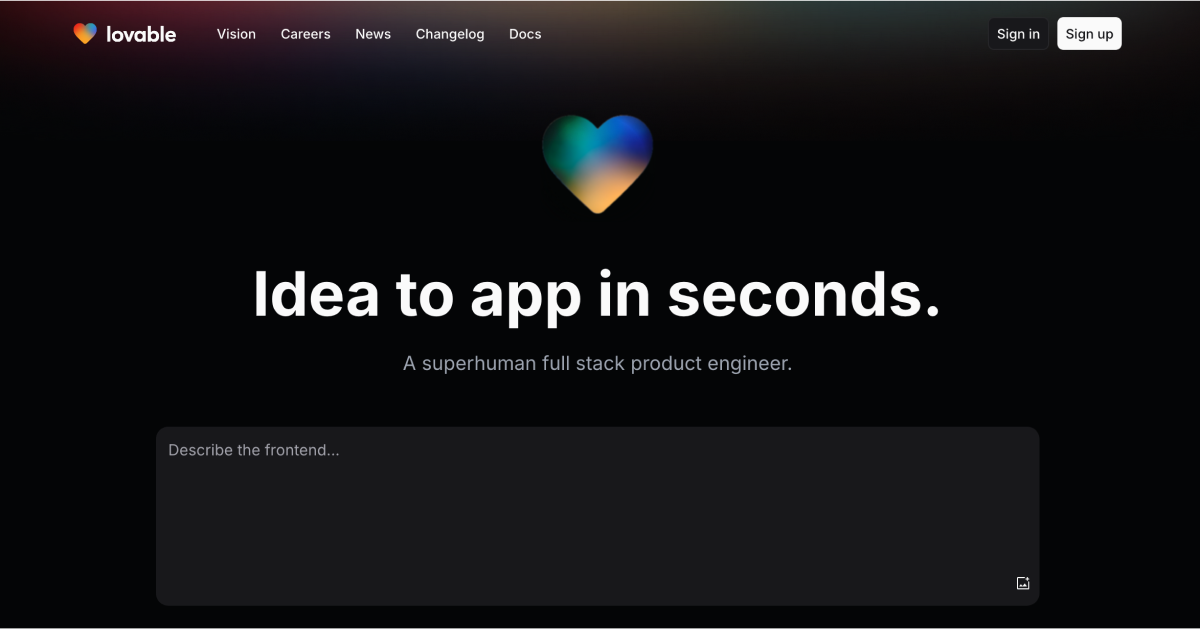
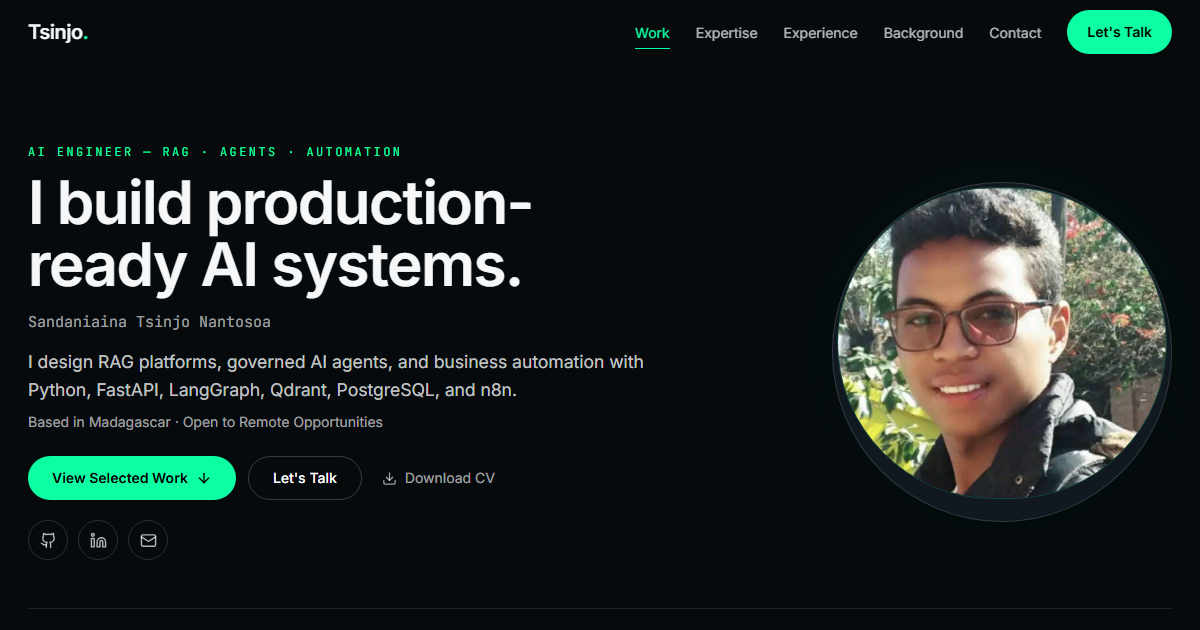
Polish portfolio for professional sharing

diff --git a/src/components/Sections/Hero.tsx b/src/components/Sections/Hero.tsx
@@ -18,8 +18,8 @@ const metrics = [
   },
   {
     value: "97/98",
-    label: "Quality & Security Checks",
-    hint: "Validated before production",
+    label: "Automated Checks Passed",
+    hint: "Quality and security validation",
   },
   {
     value: "20",
@@ -46,13 +46,11 @@ const Hero: React.FC = () => {
         }}
         aria-hidden
       />
-      <div className="pointer-events-none absolute inset-0 -z-10 bg-[radial-gradient(circle_at_72%_28%,rgba(13,255,163,0.05),transparent_34%)]" />
-
       <div className="site-container">
         <div className="layout-grid items-center py-8 sm:py-10 lg:py-12">
           <div className="col-span-12 lg:col-span-7">
             <motion.p
-              initial={{ opacity: 0, y: 10 }}
+              initial={false}
               animate={{ opacity: 1, y: 0 }}
               transition={{ duration: 0.35 }}
               className="mb-3 font-mono text-[11px] uppercase tracking-[0.2em] text-neon sm:text-xs"
@@ -61,16 +59,16 @@ const Hero: React.FC = () => {
             </motion.p>
 
             <motion.h1
-              initial={{ opacity: 0, y: 12 }}
+              initial={false}
               animate={{ opacity: 1, y: 0 }}
               transition={{ duration: 0.4, delay: 0.04 }}
-              className="mb-4 max-w-[720px] text-balance font-sans text-[clamp(2.8rem,5vw,4.8rem)] font-semibold leading-[1.03] tracking-tight text-[var(--text-primary)]"
+              className="mb-4 max-w-[720px] text-balance font-sans text-[clamp(2.5rem,5vw,4.8rem)] font-semibold leading-[1.03] tracking-tight text-[var(--text-primary)]"
             >
               I build production-ready AI systems.
             </motion.h1>
 
             <motion.p
-              initial={{ opacity: 0, y: 12 }}
+              initial={false}
               animate={{ opacity: 1, y: 0 }}
               transition={{ duration: 0.4, delay: 0.08 }}
               className="mb-4 font-mono text-sm text-[var(--text-muted)] sm:text-[15px]"
@@ -79,7 +77,7 @@ const Hero: React.FC = () => {
             </motion.p>
 
             <motion.p
-              initial={{ opacity: 0, y: 12 }}
+              initial={false}
               animate={{ opacity: 1, y: 0 }}
               transition={{ duration: 0.4, delay: 0.12 }}
               className="mb-2 max-w-[650px] text-[16.5px] leading-relaxed text-[var(--text-secondary)] sm:text-[17.5px]"
@@ -89,7 +87,7 @@ const Hero: React.FC = () => {
             </motion.p>
 
             <motion.p
-              initial={{ opacity: 0, y: 12 }}
+              initial={false}
               animate={{ opacity: 1, y: 0 }}
               transition={{ duration: 0.4, delay: 0.16 }}
               className="mb-6 text-sm text-[var(--text-muted)]"
@@ -98,7 +96,7 @@ const Hero: React.FC = () => {
             </motion.p>
 
             <motion.div
-              initial={{ opacity: 0, y: 12 }}
+              initial={false}
               animate={{ opacity: 1, y: 0 }}
               transition={{ duration: 0.4, delay: 0.2 }}
               className="mb-5 flex flex-wrap items-center gap-3"
@@ -127,7 +125,7 @@ const Hero: React.FC = () => {
             </motion.div>
 
             <motion.div
-              initial={{ opacity: 0, y: 12 }}
+              initial={false}
               animate={{ opacity: 1, y: 0 }}
               transition={{ duration: 0.4, delay: 0.24 }}
               className="flex items-center gap-2.5"
@@ -149,7 +147,7 @@ const Hero: React.FC = () => {
           </div>
 
           <motion.div
-            initial={{ opacity: 0, scale: 0.98 }}
+            initial={false}
             animate={{ opacity: 1, scale: 1 }}
             transition={{ duration: 0.5, delay: 0.1 }}
             className="col-span-12 mx-auto w-full max-w-[260px] sm:max-w-[320px] lg:col-span-5 lg:mx-0 lg:max-w-[340px] lg:justify-self-end"

diff --git a/index.html b/index.html
@@ -2,7 +2,7 @@
 <html lang="en">
   <head>
     <meta charset="UTF-8" />
-    <link rel="icon" type="image/svg+xml" href="/favicon.svg" />
+    <link rel="icon" type="image/svg+xml" href="/favicon.svg?v=2" />
     <meta name="viewport" content="width=device-width, initial-scale=1.0" />
     <meta name="theme-color" content="#070A0D" />
     <title>Sandaniaina Tsinjo Nantosoa — AI Engineer | RAG, AI Agents & Automation</title>
@@ -15,16 +15,19 @@
       content="AI Engineer, RAG, AI Agents, LangGraph, FastAPI, Qdrant, n8n, Automation, Python, Sandaniaina Tsinjo Nantosoa"
     />
     <meta name="author" content="Sandaniaina Tsinjo Nantosoa" />
-    <link rel="canonical" href="https://tsinjonantosoa.netlify.app/" />
+    <link rel="canonical" href="https://tsinjona.netlify.app/" />
 
     <meta property="og:title" content="Sandaniaina Tsinjo Nantosoa — AI Engineer" />
     <meta
       property="og:description"
       content="RAG · AI Agents · Automation. Production-ready AI systems with Python, FastAPI, LangGraph, Qdrant and n8n."
     />
-    <meta property="og:image" content="/og-image.png" />
+    <meta property="og:image" content="https://tsinjona.netlify.app/og-image.png" />
+    <meta property="og:image:width" content="1200" />
+    <meta property="og:image:height" content="630" />
+    <meta property="og:image:alt" content="Sandaniaina Tsinjo Nantosoa, AI Engineer building production-ready AI systems" />
     <meta property="og:type" content="website" />
-    <meta property="og:url" content="https://tsinjonantosoa.netlify.app/" />
+    <meta property="og:url" content="https://tsinjona.netlify.app/" />
 
     <meta name="twitter:card" content="summary_large_image" />
     <meta name="twitter:title" content="Sandaniaina Tsinjo Nantosoa — AI Engineer" />
@@ -32,7 +35,7 @@
       name="twitter:description"
       content="RAG · AI Agents · Automation. Production-ready AI systems with Python, FastAPI, LangGraph, Qdrant and n8n."
     />
-    <meta name="twitter:image" content="/og-image.png" />
+    <meta name="twitter:image" content="https://tsinjona.netlify.app/og-image.png" />
 
     <script type="application/ld+json">
       {
@@ -40,7 +43,7 @@
         "@type": "Person",
         "name": "Sandaniaina Tsinjo Nantosoa",
         "jobTitle": "AI Engineer",
-        "url": "https://tsinjonantosoa.netlify.app/",
+        "url": "https://tsinjona.netlify.app/",
         "email": "mailto:tsinjonantosoa@gmail.com",
         "sameAs": [
           "https://github.com/TsinjoNantosoa",

diff --git a/src/components/project/FeaturedProjectCard.tsx b/src/components/project/FeaturedProjectCard.tsx
@@ -57,7 +57,7 @@ const FeaturedProjectCard: React.FC<FeaturedProjectCardProps> = ({
       <p className="mb-2 line-clamp-3 text-[15.5px] leading-[1.6] text-[var(--text-secondary)]">
         {project.plainSummary}
       </p>
-      <p className="mb-4 line-clamp-2 font-mono text-[12px] leading-relaxed text-[var(--text-muted)]">
+      <p className="mb-4 line-clamp-2 font-mono text-[12.5px] leading-relaxed text-[var(--text-muted)]">
         {project.technicalSummary}
       </p>
 
@@ -65,7 +65,7 @@ const FeaturedProjectCard: React.FC<FeaturedProjectCardProps> = ({
         {project.highlights.slice(0, highlightLimit).map((item) => (
           <li
             key={item}
-            className="flex gap-2.5 text-[14px] leading-[1.45] text-[var(--text-secondary)]"
+            className="flex gap-2.5 text-[14.5px] leading-[1.5] text-[var(--text-secondary)]"
           >
             <span className="mt-1.5 h-1.5 w-1.5 shrink-0 rounded-full bg-neon" aria-hidden />
             <span>{item}</span>
@@ -161,7 +161,7 @@ const FeaturedProjectCard: React.FC<FeaturedProjectCardProps> = ({
           </div>
         </div>
       ) : hasMedia && project.imageUrl ? (
-        <div className={isFlagship ? "grid h-full lg:grid-cols-[1.25fr_0.75fr]" : "flex h-full flex-col"}>
+        <div className={isFlagship ? "grid h-full lg:grid-cols-[0.95fr_1.05fr]" : "flex h-full flex-col"}>
           <div className={isFlagship ? "min-h-0" : undefined}>
             <ProjectMedia
               src={project.imageUrl}
@@ -170,7 +170,8 @@ const FeaturedProjectCard: React.FC<FeaturedProjectCardProps> = ({
                 `${project.title} screenshot`
               }
               aspectClassName={isFlagship ? "aspect-[16/10] h-full min-h-[300px] lg:aspect-auto" : "aspect-[16/10]"}
-              objectPosition={isFlagship ? "object-[82%_top]" : "object-top"}
+              objectPosition={isFlagship ? "object-right" : "object-top"}
+              imageClassName={isFlagship ? "origin-right scale-[1.35]" : ""}
               onError={() => setMediaFailed(true)}
             />
           </div>

diff --git a/src/components/project/SecondaryProjectCard.tsx b/src/components/project/SecondaryProjectCard.tsx
@@ -28,14 +28,14 @@ const SecondaryProjectCard: React.FC<SecondaryProjectCardProps> = ({ project }) 
         <h3 className="mb-2 text-base font-semibold leading-snug text-[var(--text-primary)]">
           {project.title}
         </h3>
-        <p className="mb-3 line-clamp-2 text-[13.5px] leading-relaxed text-[var(--text-secondary)]">
+        <p className="mb-3 line-clamp-3 text-[14.5px] leading-relaxed text-[var(--text-secondary)]">
           {project.description}
         </p>
         <div className="mb-3 flex flex-wrap gap-1.5">
           {project.stack.slice(0, 3).map((tech) => (
             <span
               key={tech}
-              className="tech-tag !min-h-6 !px-2 !text-[10.5px]"
+              className="tech-tag !min-h-6 !px-2 !text-[11px]"
             >
               {tech}
             </span>
@@ -47,7 +47,7 @@ const SecondaryProjectCard: React.FC<SecondaryProjectCardProps> = ({ project }) 
               href={project.githubLink}
               target="_blank"
               rel="noopener noreferrer"
-              className="inline-flex min-h-9 items-center gap-1 text-xs text-white/60 hover:text-white"
+              className="inline-flex min-h-9 items-center gap-1.5 text-[13px] text-white/70 hover:text-white"
             >
               <Github size={12} />
               Code

diff --git a/src/index.css b/src/index.css
@@ -12,8 +12,8 @@
     --border-subtle: rgba(255, 255, 255, 0.08);
     --border-medium: rgba(255, 255, 255, 0.12);
     --text-primary: #F5F7F8;
-    --text-secondary: rgba(245, 247, 248, 0.72);
-    --text-muted: rgba(245, 247, 248, 0.52);
+    --text-secondary: rgba(245, 247, 248, 0.8);
+    --text-muted: rgba(245, 247, 248, 0.64);
     --brand-accent: #0DFFA3;
 
     --section-xs: 3rem;
@@ -205,7 +205,7 @@
   }
 
   .surface-card {
-    @apply overflow-hidden rounded-2xl border border-white/[0.09] bg-[var(--surface-1)] transition duration-300;
+    @apply overflow-hidden rounded-lg border border-white/[0.11] bg-[var(--surface-1)] transition duration-300;
   }
 
   .surface-card-hover {
@@ -213,7 +213,7 @@
   }
 
   .tech-tag {
-    @apply inline-flex min-h-7 items-center rounded-md border border-white/10 bg-white/[0.015] px-2.5 py-1 font-mono text-[11.5px] leading-none text-white/65;
+    @apply inline-flex min-h-7 items-center rounded-md border border-white/10 bg-white/[0.025] px-2.5 py-1 font-mono text-xs leading-none text-white/70;
   }
 
   .eyebrow {

diff --git a/src/components/ui-kit/ProjectMedia.tsx b/src/components/ui-kit/ProjectMedia.tsx
@@ -5,6 +5,7 @@ interface ProjectMediaProps {
   alt: string;
   aspectClassName?: string;
   className?: string;
+  imageClassName?: string;
   objectPosition?: string;
   onError?: () => void;
 }
@@ -14,6 +15,7 @@ const ProjectMedia: React.FC<ProjectMediaProps> = ({
   alt,
   aspectClassName = "aspect-[16/10]",
   className = "",
+  imageClassName = "",
   objectPosition = "object-top",
   onError,
 }) => {
@@ -26,7 +28,7 @@ const ProjectMedia: React.FC<ProjectMediaProps> = ({
         width={1280}
         height={800}
         onError={onError}
-        className={`h-full w-full object-cover transition duration-500 group-hover:scale-[1.015] group-hover:brightness-105 ${objectPosition}`}
+        className={`h-full w-full object-cover transition duration-500 group-hover:brightness-105 ${objectPosition} ${imageClassName}`}
       />
       <div className="pointer-events-none absolute inset-0 bg-gradient-to-t from-[var(--bg-primary)]/20 via-transparent to-transparent" />
     </div>

diff --git a/src/data/projects.ts b/src/data/projects.ts
@@ -25,7 +25,7 @@ export const featuredProjects: FeaturedProject[] = [
     proof: [
       { value: "3", label: "Assistants", hint: "Deployed for real organizations" },
       { value: "700+", label: "Knowledge chunks", hint: "Indexed and maintained" },
-      { value: "97/98", label: "Quality checks", hint: "Validated before production" },
+      { value: "97/98", label: "Checks passed", hint: "Automated quality and security validation" },
     ],
     stack: ["Python", "FastAPI", "LangChain", "Qdrant", "PostgreSQL", "Redis", "React", "Docker"],
     imageUrl: "/portfolio-uploads/production-multi-tenant-rag-platform.png",

diff --git a/src/components/Sections/Contact.tsx b/src/components/Sections/Contact.tsx
@@ -8,7 +8,7 @@ const Contact: React.FC = () => {
   return (
     <section
       id="contact"
-      className="section-block scroll-mt-24 bg-[radial-gradient(ellipse_at_top,rgba(13,255,163,0.04),transparent_45%)]"
+      className="section-block scroll-mt-24 bg-[var(--bg-secondary)]/35"
     >
       <div className="site-container">
         <div className="layout-grid items-start">

diff --git a/src/components/UI/ProfileImage.tsx b/src/components/UI/ProfileImage.tsx
@@ -1,6 +1,6 @@
 import React from "react";
 import { motion } from "framer-motion";
-import imgTsinjo from "./tsinjo.png";
+import imgTsinjo from "./tsinjo.jpg";
 
 const ProfileImage: React.FC<{ className?: string }> = ({ className = "" }) => {
   return (

diff --git a/README.md b/README.md
@@ -28,7 +28,7 @@ Optional contact API:
 VITE_CONTACT_API_URL=https://your-api.example.com/api/contacts
 ```
 
-If unset, the contact form opens a mailto draft.
+If unset, the contact form submits through Netlify Forms.
 
 ## Featured work
 
